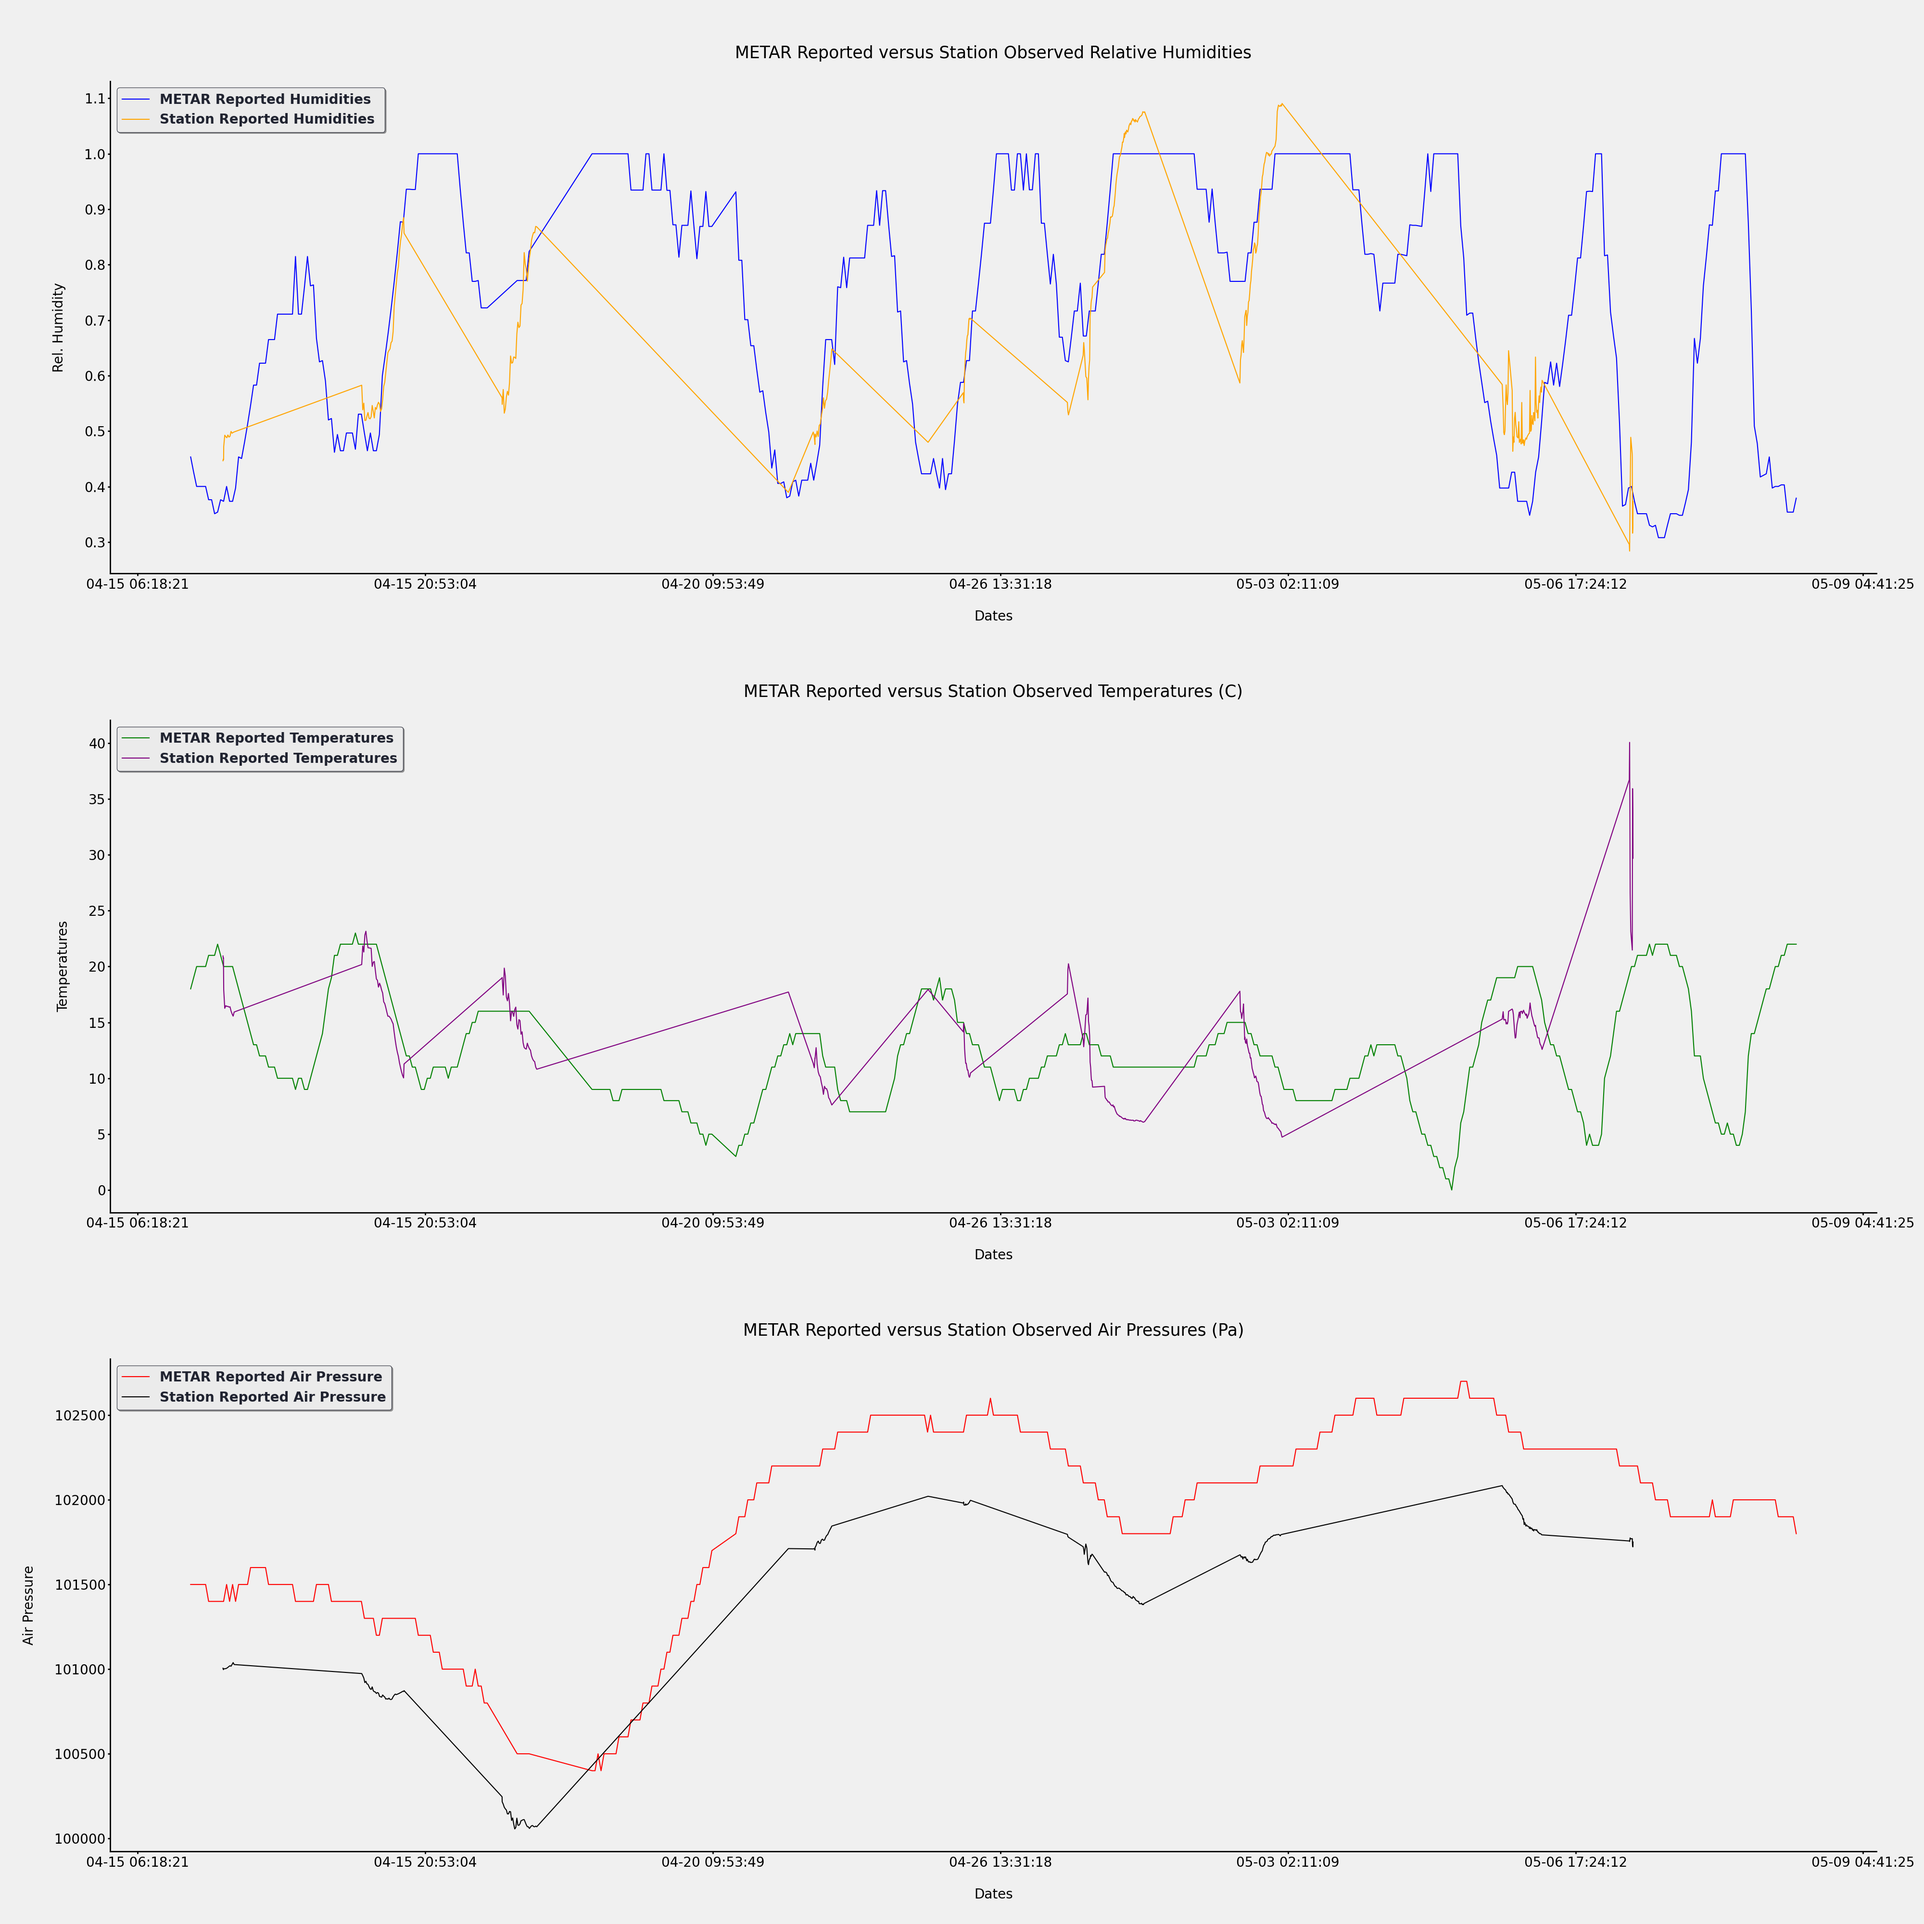
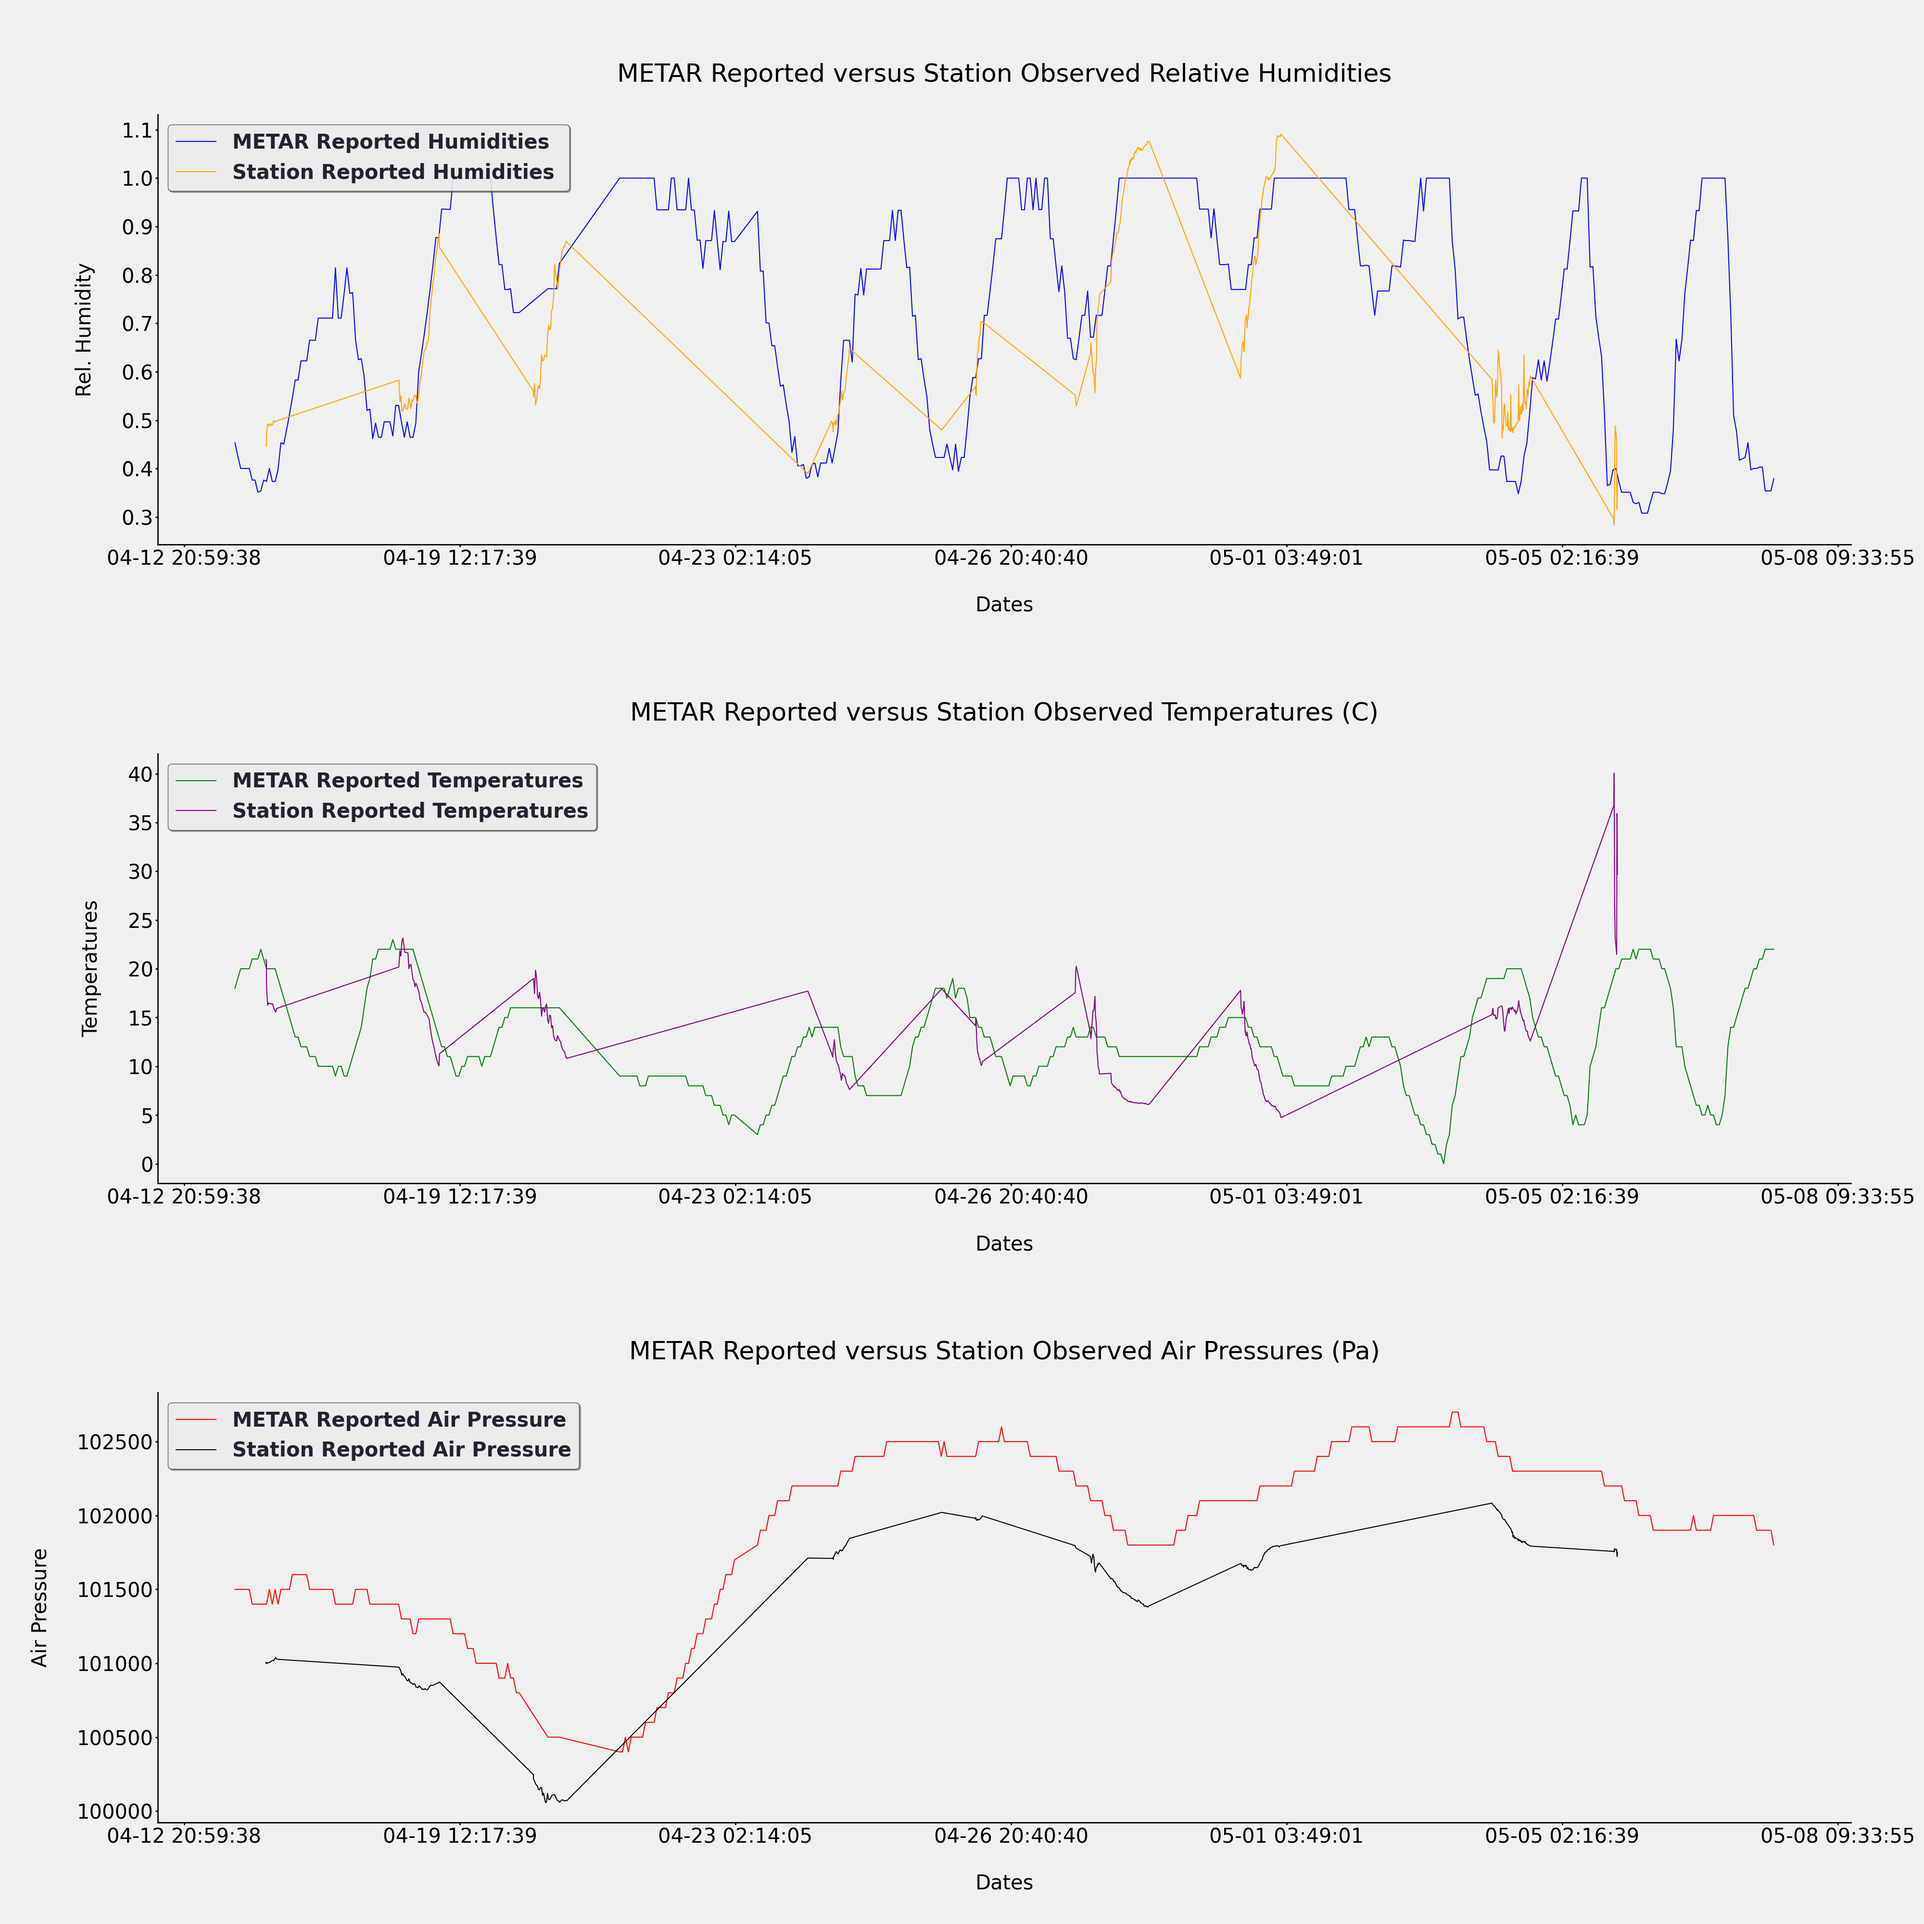
_______

diff --git a/compare.py b/compare.py
@@ -56,7 +56,7 @@ xticks_stamps_strs = [reading.strftime("%m-%d %H:%M:%S") for reading in xticks_s
 plt.rcParams["figure.autolayout"] = True
 bg_color = '#f0f0f0'
 line_color = "#202330"
-fs = 20
+fs = 30
 fig, (ax0, ax1, ax2) = plt.subplots(nrows = 3, ncols = 1)
     
     
